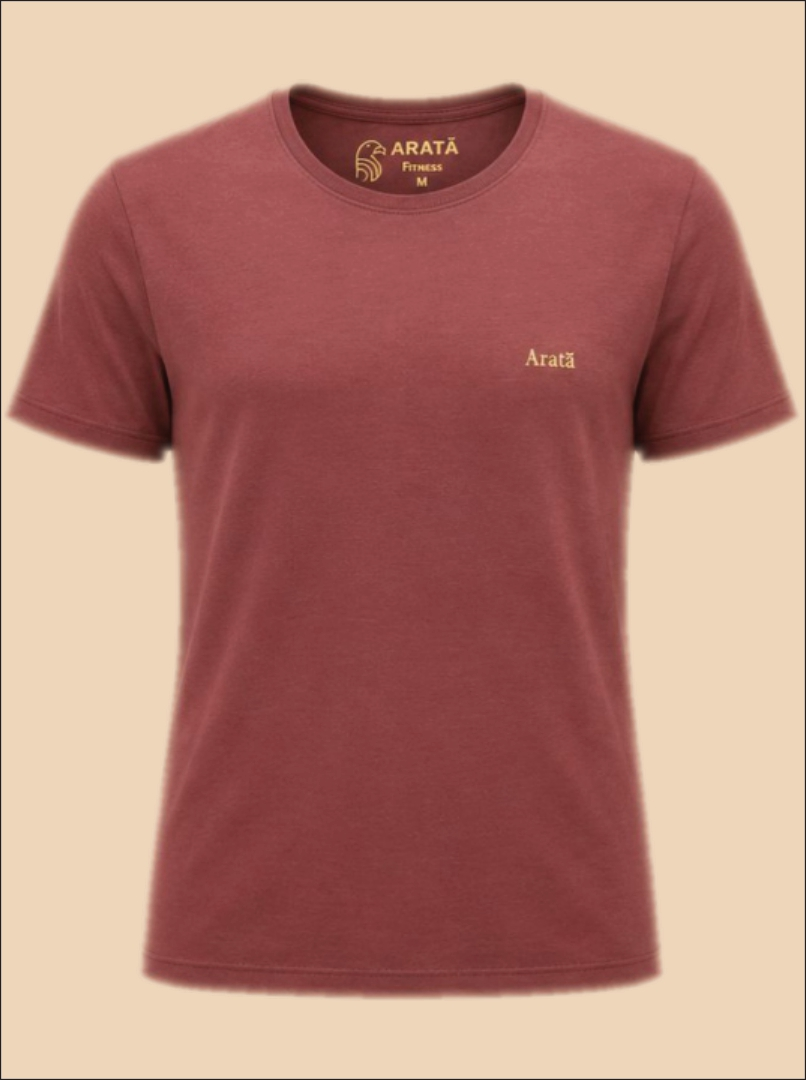
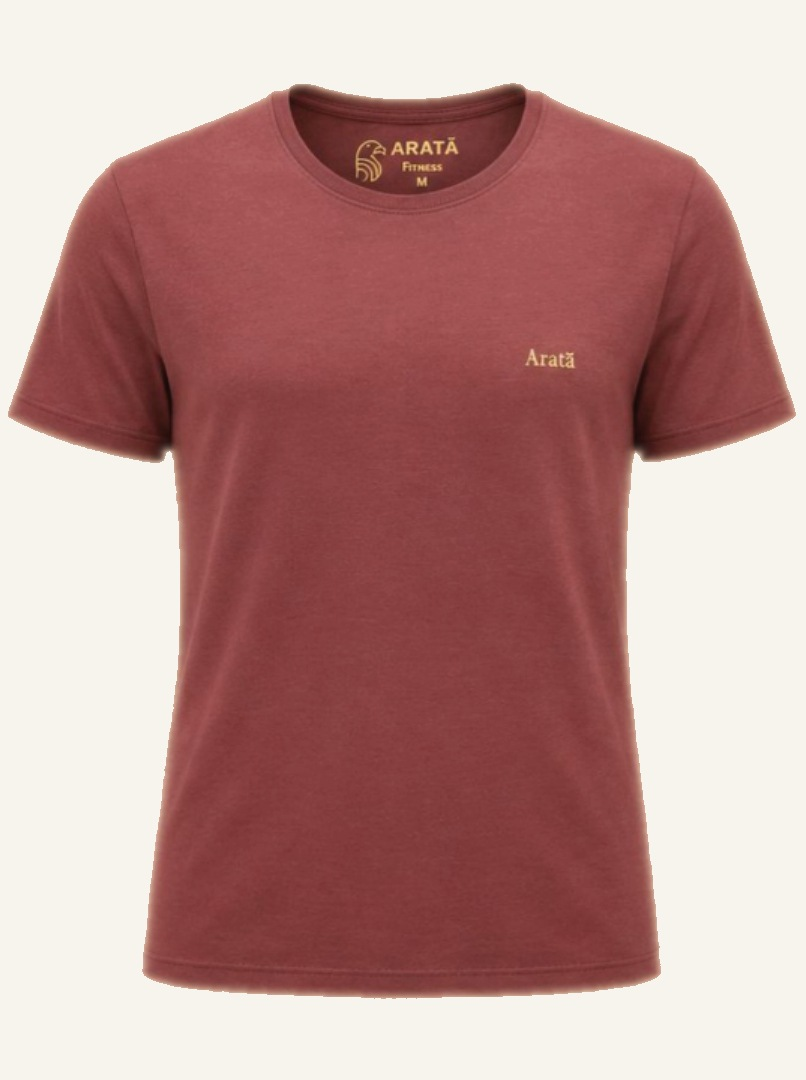
Uniformiza fundos das fotos dos produtos

diff --git a/products.php b/products.php
@@ -66,11 +66,11 @@ $purchaseOptions = [
                 <article class="product-card-p">
                     <div class="product-slider">
                         <div class="slider-track">
-                            <img class="product-visual-p active" src="src/images/mod-masc/1.jpg" alt="Camiseta Aratã Fitness masculina verde" />
-                            <img class="product-visual-p" src="src/images/mod-masc/2.jpg" alt="Camiseta Aratã Fitness masculina azul-marinho" />
-                            <img class="product-visual-p" src="src/images/mod-masc/3.jpg" alt="Camiseta Aratã Fitness masculina vermelha" />
-                            <img class="product-visual-p" src="src/images/mod-masc/4.jpg" alt="Camiseta Aratã Fitness masculina azul" />
-                            <img class="product-visual-p" src="src/images/mod-masc/5.jpg" alt="Camiseta Aratã Fitness masculina branca" />
+                            <img class="product-visual-p active" src="src/images/mod-masc/1.jpg?v=2" alt="Camiseta Aratã Fitness masculina verde" />
+                            <img class="product-visual-p" src="src/images/mod-masc/2.jpg?v=2" alt="Camiseta Aratã Fitness masculina azul-marinho" />
+                            <img class="product-visual-p" src="src/images/mod-masc/3.jpg?v=2" alt="Camiseta Aratã Fitness masculina vermelha" />
+                            <img class="product-visual-p" src="src/images/mod-masc/4.jpg?v=2" alt="Camiseta Aratã Fitness masculina azul" />
+                            <img class="product-visual-p" src="src/images/mod-masc/5.jpg?v=2" alt="Camiseta Aratã Fitness masculina branca" />
                         </div>
                         <button type="button" class="slider-btn prev" aria-label="Produto anterior" onclick="moveSlide(this, -1)">&lt;</button>
                         <button type="button" class="slider-btn next" aria-label="Próximo produto" onclick="moveSlide(this, 1)">&gt;</button>
@@ -123,11 +123,11 @@ $purchaseOptions = [
                 <article class="product-card-p">
                     <div class="product-slider">
                         <div class="slider-track">
-                            <img class="product-visual-p active" src="src/images/mod-fem/1.jpg" alt="Camiseta Aratã Fitness feminina azul-marinho" />
-                            <img class="product-visual-p" src="src/images/mod-fem/2.jpg" alt="Camiseta Aratã Fitness feminina azul" />
-                            <img class="product-visual-p" src="src/images/mod-fem/3.jpg" alt="Camiseta Aratã Fitness feminina verde" />
-                            <img class="product-visual-p" src="src/images/mod-fem/4.jpg" alt="Camiseta Aratã Fitness feminina vermelha" />
-                            <img class="product-visual-p" src="src/images/mod-fem/5.jpg" alt="Camiseta Aratã Fitness feminina branca" />
+                            <img class="product-visual-p active" src="src/images/mod-fem/1.jpg?v=2" alt="Camiseta Aratã Fitness feminina azul-marinho" />
+                            <img class="product-visual-p" src="src/images/mod-fem/2.jpg?v=2" alt="Camiseta Aratã Fitness feminina azul" />
+                            <img class="product-visual-p" src="src/images/mod-fem/3.jpg?v=2" alt="Camiseta Aratã Fitness feminina verde" />
+                            <img class="product-visual-p" src="src/images/mod-fem/4.jpg?v=2" alt="Camiseta Aratã Fitness feminina vermelha" />
+                            <img class="product-visual-p" src="src/images/mod-fem/5.jpg?v=2" alt="Camiseta Aratã Fitness feminina branca" />
                         </div>
                         <button type="button" class="slider-btn prev" aria-label="Produto anterior" onclick="moveSlide(this, -1)">&lt;</button>
                         <button type="button" class="slider-btn next" aria-label="Próximo produto" onclick="moveSlide(this, 1)">&gt;</button>
